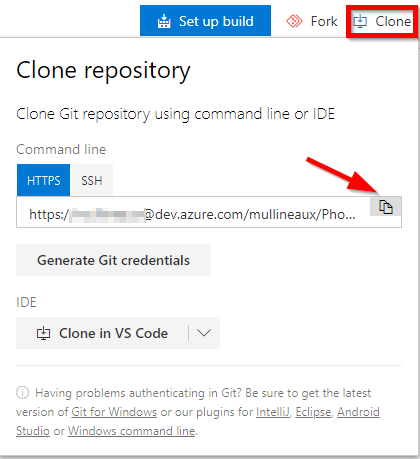
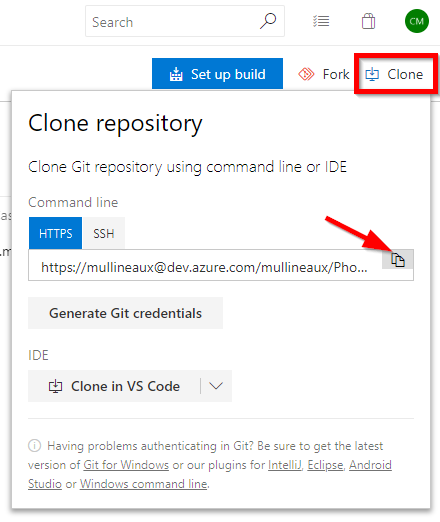
updated images and minor rewording

Changed region(s): [[0.0, 0.0, 1.0, 1.0], [0.031, 0.0, 0.65, 0.183], [0.4643, 0.7015, 0.4952, 0.7625]]

diff --git a/_posts/azure-devops/2019-03-01-azure-devops-part-2.md b/_posts/azure-devops/2019-03-01-azure-devops-part-2.md
@@ -6,11 +6,9 @@ author: Casey Mullineaux
 cover: '/images/posts/azure-devops/part2/part2-image2.png'
 tags: arm azure devops
 ---
-In [part 1]({% post_url /azure-devops/2019-01-11-azure-devops-part-1 %}) we got setup with a new Azure DevOps account. 
+In [Part 1]({% post_url /azure-devops/2019-01-11-azure-devops-part-1 %}) we setup a new Azure DevOps account. The next thing we are going to need is a source control repo to store the ARM templates. 
 
-The next thing we are going to need is a source control repo to store the ARM templates. A source control system, also called a version control system, allows developers to collaborate on code and track changes. It is an eseential tool when working in a team.
-
-With Git, each developer has a copy of the source repository, including all branch and history information, on their dev machine. Each developer works directly with their own local repository. Changes are shared between repositories as a separate step.
+A source control system, also called a version control system, allows developers to collaborate on code and track changes. It is an eseential tool when working in a team. With Git, each developer has a copy of the source repository, including all branch and history information, on their dev machine. Each developer works directly with their own local repository. Changes are shared between repositories as a separate step.
 
 # Create a repo
 
@@ -19,15 +17,11 @@ With Git, each developer has a copy of the source repository, including all bran
         Before you start make sure you have installed <a href="https://gitforwindows.org/">Git for Windows</a> <br>
 </p>
 
-To get started, open the project in Azure DevOps and click **Repos** from the menu on the left
-
-![image1](/images/posts/azure-devops/part2/part2-image1.png)
-
-The first thing we need to do is *initialize* the repo. This creates the necessary file and folder structure needed by git.
-
-![image2](/images/posts/azure-devops/part2/part2-image2.png)
-
+To get started, open the project in Azure DevOps and click **Repos** from the menu on the left.  
+Now *initialize* the repo. This creates the necessary file and folder structure needed by git.  
 Once initialized, you'll be redirected to the files view of the newly initialized repo, that contains a single `README.md` file.
+
+![image1](/images/posts/azure-devops/part2/part2-animation1.gif)
 
 # Clone the repo
 
@@ -46,8 +40,25 @@ Back in Azure DevOps, click the **Clone** button in the top right hand corner, t
 In a command prompt, navigate to the directory you created earlier and **clone** the repo to your local machine. This will create a new directory with the name of the project inside the current directory.
 
 ```cmd
-NOTE: git clone - show cmd output
+C:\source>git clone https://mullineaux@dev.azure.com/mullineaux/Phoenix/_git/Phoenix
+Cloning into 'Phoenix'...
+remote: Azure Repos
+remote: Found 6 objects to send. (67 ms)
+Unpacking objects: 100% (6/6), done.
 
+C:\source>dir
+ Volume in drive C has no label.
+ Volume Serial Number is DC2D-1D62
+
+ Directory of C:\source
+
+01/03/2019  06:32 PM    <DIR>          .
+01/03/2019  06:32 PM    <DIR>          ..
+01/03/2019  06:32 PM    <DIR>          Phoenix
+               0 File(s)              0 bytes
+               3 Dir(s)  29,011,558,400 bytes free
+
+C:\source>
 ```
 
 # Pushing changes - the hard way
@@ -61,16 +72,16 @@ So why do something the hard way if there's an easy way to do it?
 
 ---
 
-Let's create a new blank file called `azure-deploy.json`.
+Let's create a new blank file called `azuredeploy.json`.
 
 ```cmd
-C:\source\Phoenix%20Project>type nul > azure-deploy.json
+C:\source\Phoenix>type nul > azuredeploy.json
 
-C:\source\Phoenix%20Project>dir
+C:\source\Phoenix>dir
  Volume in drive C has no label.
  Volume Serial Number is DC2D-1D62
 
- Directory of C:\source\Phoenix%20Project
+ Directory of C:\source\Phoenix
 
 28/02/2019  08:12 AM    <DIR>          .
 28/02/2019  08:12 AM    <DIR>          ..
@@ -79,38 +90,38 @@ C:\source\Phoenix%20Project>dir
                2 File(s)            968 bytes
                2 Dir(s)  16,949,805,056 bytes free
 
-C:\source\Phoenix%20Project>
+C:\source\Phoenix>
 
 ```
 
 The first step is to add the new file to the git repo so it can start tracking changes in the file. 
 
 ```cmd
-C:\source\Phoenix%20Project>git add azure-deploy.json
+C:\source\Phoenix>git add azuredeploy.json
 
-C:\source\Phoenix%20Project>
+C:\source\Phoenix>
 ```
 
 Now if we run `git status` we can see that git is now tracking the new file, and we have one *uncommited* change in the repo (the new file).
 
 ```cmd
-C:\source\Phoenix%20Project>git status
+C:\source\Phoenix>git status
 On branch master
 Your branch is up to date with 'origin/master'.
 
 Changes to be committed:
   (use "git reset HEAD <file>..." to unstage)
 
-        new file:   azure-deploy.json
+        new file:   azuredeploy.json
 
 
-C:\source\Phoenix%20Project>
+C:\source\Phoenix>
 ```
 
 Next, using notepad (or your editor of choice) modify the file and add a basic ARM template scaffold.
 
 ```cmd
-C:\source\Phoenix%20Project>type azure-deploy.json
+C:\source\Phoenix>type azuredeploy.json
 {
     "$schema": "https://schema.management.azure.com/schemas/2015-01-01/deploymentTemplate.json#",
     "contentVersion": "1.0.0.0",
@@ -119,41 +130,41 @@ C:\source\Phoenix%20Project>type azure-deploy.json
     "resources": [],
     "outputs": {}
 }
-C:\source\Phoenix%20Project>
+C:\source\Phoenix>
 ```
 
 If we run `git status` again, we can see it how now has two *uncommited* changes. One for the addition of the new file, and one for the changes made to the file.
 
 ```cmd
-C:\source\Phoenix%20Project>git status
+C:\source\Phoenix>git status
 On branch master
 Your branch is up to date with 'origin/master'.
 
 Changes to be committed:
   (use "git reset HEAD <file>..." to unstage)
 
-        new file:   azure-deploy.json
+        new file:   azuredeploy.json
 
 Changes not staged for commit:
   (use "git add <file>..." to update what will be committed)
   (use "git checkout -- <file>..." to discard changes in working directory)
 
-        modified:   azure-deploy.json
+        modified:   azuredeploy.json
 
 
-C:\source\Phoenix%20Project>
+C:\source\Phoenix>
 ```
 
-As I am working with a *local clone* of the source repo from Azure DevOps, in order to push the changes back up to Azure DevOps I need to first **commit** the changes to the branch. Here we use the `git commit` command with a few switches.
+As we are working with a *local clone* of the source repo from Azure DevOps, in order to push the changes back up to Azure DevOps we need to first **commit** the changes to the branch. Here we use the `git commit` command with a few switches.
 
 * **-a** commit all changes
 * **-m** the message associated with the commit
 
 ```cmd
-C:\source\Phoenix%20Project>git commit -a -m "initial commit"
+C:\source\Phoenix>git commit -a -m "initial commit"
 [master b88ee38] initial commit
  1 file changed, 8 insertions(+)
- create mode 100644 azure-deploy.json
+ create mode 100644 azuredeploy.json
 ```
 
 These changes are now considered **staged**.
@@ -161,7 +172,7 @@ These changes are now considered **staged**.
 And lastly, I **push** the staged changes back to the master branch with `git push`.
 
 ```cmd
-C:\source\Phoenix%20Project>git push
+C:\source\Phoenix>git push
 Enumerating objects: 4, done.
 Counting objects: 100% (4/4), done.
 Delta compression using up to 8 threads.
@@ -171,29 +182,29 @@ Total 3 (delta 0), reused 0 (delta 0)
 remote: Analyzing objects... (3/3) (6 ms)
 remote: Storing packfile... done (170 ms)
 remote: Storing index... done (120 ms)
-To https://dev.azure.com/mullineaux/Phoenix%20Project/_git/Phoenix%20Project
+To https://dev.azure.com/mullineaux/Phoenix/_git/Phoenix
    ef41909..b88ee38  master -> master
 
-C:\source\Phoenix%20Project>
+C:\source\Phoenix>
 ```
 
-Back in Azure DevOps, I refresh the files view  and I can now see the file has been added with the commit message.
+Back in Azure DevOps, refreshing the file view shows that the file has been added with the commit message we entered earlier.
 
 ![image4](/images/posts/azure-devops/part2/part2-image4.png)
 
 # Pushing changes - the easy way
 
-VSCode has native support for Git built right in. All of the actions we completed on the command line are *abstracted away* with a few simple clicks. VSCode automatically knows about the repo from the files that were created during initilization and then cloned to our local directory. 
+VSCode has native support for Git built right in. All of the actions we completed on the command line are *abstracted away* with a few simple clicks. VSCode automatically knows about the repo from the files that were created during the repos initilization. 
 
 ---
 
 Fire up VSCode in the current directory.
 
 ```cmd
-C:\source\Phoenix%20Project>code .
+C:\source\Phoenix>code .
 ```
 
-Edit `azure-deploy.json` to deploy something simple, like a storage account.
+Edit `azuredeploy.json` to deploy something simple, like a storage account.
 
 ```json
 {
@@ -218,7 +229,7 @@ Edit `azure-deploy.json` to deploy something simple, like a storage account.
 }
 ```
 
-Once you save the changes, notice the badge on the source control menu now indicates *an uncommited change*.
+Notice the badge on the source control menu now indicates *an uncommited change*.
 
 ![image5](/images/posts/azure-devops/part2/part2-image5.png)
 
@@ -230,11 +241,11 @@ We can stage changes to individual files by hovering over the file name and clic
 
 ![image7](/images/posts/azure-devops/part2/part2-image7.png)
 
-The changes can then be commited to the local repo by entering a commit message and clicking the **commit** icon. (Shortcut: `CTRL + Enter`)
+The changes can then be commited to the local repo by entering a commit message and clicking the `commit icon`. (Shortcut: `CTRL + Enter`)
 
 ![image8](/images/posts/azure-devops/part2/part2-image8.png)
 
-The status icon in the bottom toolbar now changes to show we have one outgoing change.
+The `status icon` in the bottom toolbar now changes to show we have one outgoing change.
 
 ![image9](/images/posts/azure-devops/part2/part2-image9.png)
 
@@ -242,7 +253,7 @@ Finally, we can now **push** the changes up to Azure DevOps by clicking the elip
 
 ![image10](/images/posts/azure-devops/part2/part2-image10.png)
 
-Alternatively, you can **synchronize** changes (simultanious push and pull) by clicking the status icon in the bottom toolbar.
+Alternatively, you can **synchronize** changes (simultanious push and pull) by clicking the `status icon` in the bottom toolbar.
 
 <p class="alert alert-success">
     <i class="fa fa-check-circle"></i> <strong>Pro tip!</strong><br>

diff --git a/_posts/azure-devops/2019-01-11-azure-devops-part-1.md b/_posts/azure-devops/2019-01-11-azure-devops-part-1.md
@@ -25,7 +25,7 @@ Azure DevOps is split up into 5 main areas:
 
 To keep things simple, i'm going to be focusing on the meat and potatoes of what Azure DevOps offers, which is Azure Repos and Azure Pipelines. 
 
-These two features allows us to store and manage ARM templates in source control, and deploy them into Azure automatically using a CI/CD pipeline.
+These two features allows us to store and manage ARM templates in source control, and deploy them into Azure automatically every time the code in the arm template changes using a CI/CD pipeline.
 
 # Getting started
 
@@ -35,16 +35,16 @@ Getting started is super easy and can be done in less than five minutes.
 
 Head to [dev.azure.com](https://dev.azure.com) and click **Start free** to create a new account.
 
-![image1](/images/posts/azure-devops/part1-image1.png)
+![image1](/images/posts/azure-devops/part1/part1-image1.png)
 
 Once you sign in with your Microsoft account, clicking continue will provision a new Azure DevOps instance your Azure tenancy. 
 
-![image2](/images/posts/azure-devops/part1-image2.png)
+![image2](/images/posts/azure-devops/part1/part1-image2.png)
 
 <p class="alert alert-info">
     <i class="fa fa-info-circle"></i> <strong>Info</strong><br>
         If you login to the Azure portal, you can see the resource that was provisioned by browsing to All services --> Azure DevOps organizations <br>
-    <img src="/images/posts/azure-devops/part1-image3.png">
+    <img src="/images/posts/azure-devops/part1/part1-image3.png">
 </p>
 
 ## Create a new project
@@ -55,19 +55,19 @@ Think of a "project" as a bucket that will contain all of your source code and b
 
 <p class="alert alert-success">
     <i class="fa fa-check-circle"></i> <strong>Tip</strong><br>
-     It is a good rule of thumb to create a new project for each application or system you want to manage via CI/CD.
+     It is a good rule of thumb to create a new project for each application or system you want to enable for CI/CD.
 </p>
 
 Give the project a name and choose whether you want the project to be public or private. In most cases, you'd want to keep your junk private.
 
-![image4](/images/posts/azure-devops/part1-image4.png)
+![image4](/images/posts/azure-devops/part1/part1-image4.png)
 > A subtle call out to [The Phoenix Project](https://www.amazon.com/Phoenix-Project-DevOps-Helping-Business/dp/1942788290?SubscriptionId=AKIAILSHYYTFIVPWUY6Q&tag=duckduckgo-d-20&linkCode=xm2&camp=2025&creative=165953&creativeASIN=1942788290) - recommend you pick up a copy!
 
 That it! Told you it was simple! 
 
----
+Continue to [Part 2]({% post_url /azure-devops/2019-03-01-azure-devops-part-2 %}) where I'll show you how to setup a new Git repo and make your first code commit.
 
-Continue to [Part 2 - Source Control]({% post_url /azure-devops/2019-03-01-azure-devops-part-2 %})
+---
 
 - Part 1 - Getting started with Azure DevOps
 - [Part 2 - Source Control]({% post_url /azure-devops/2019-03-01-azure-devops-part-2 %})
